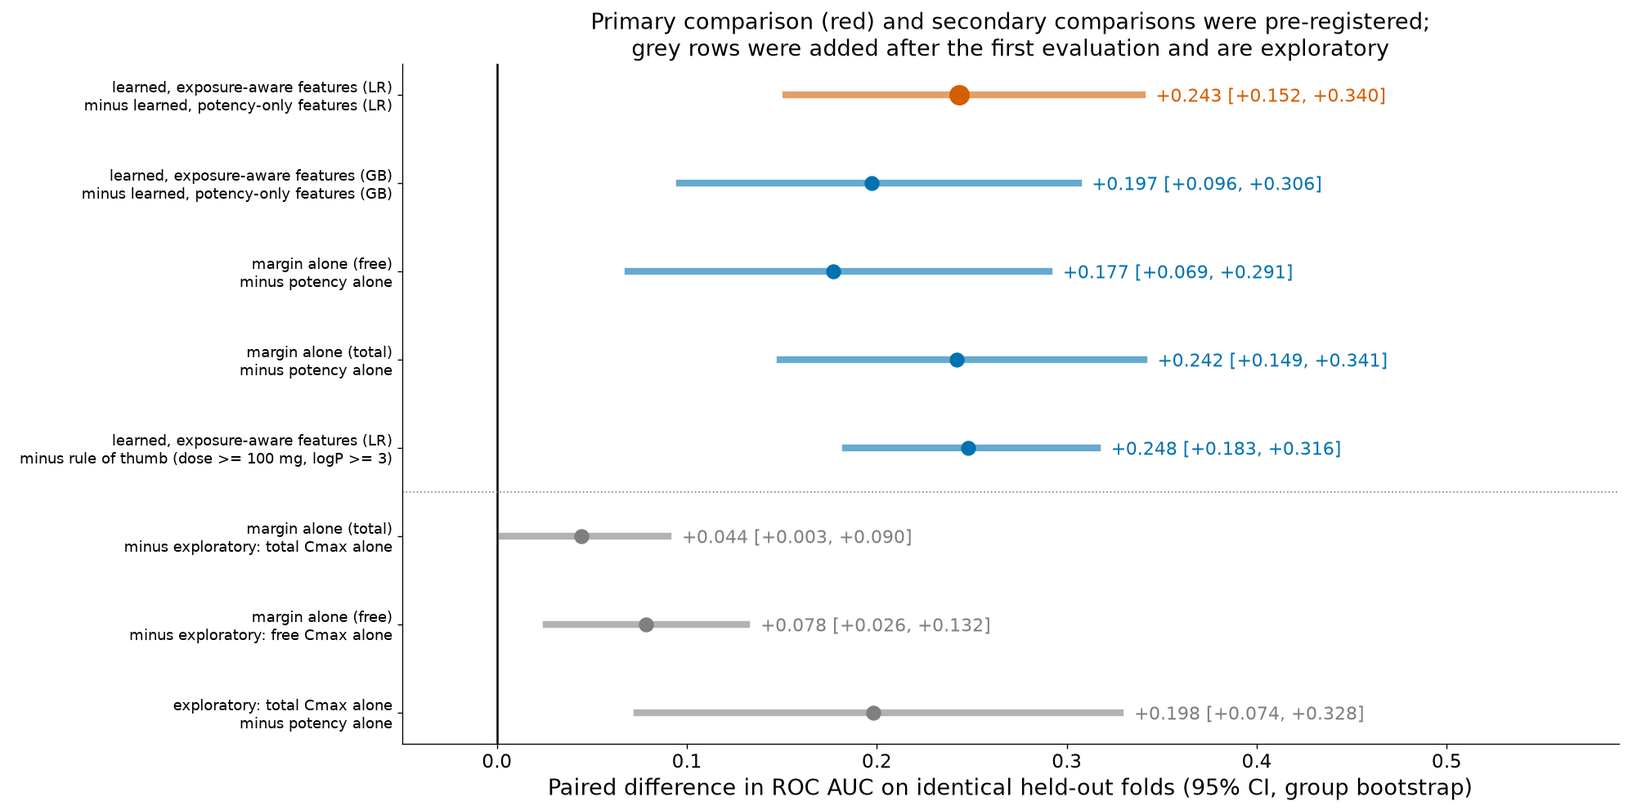
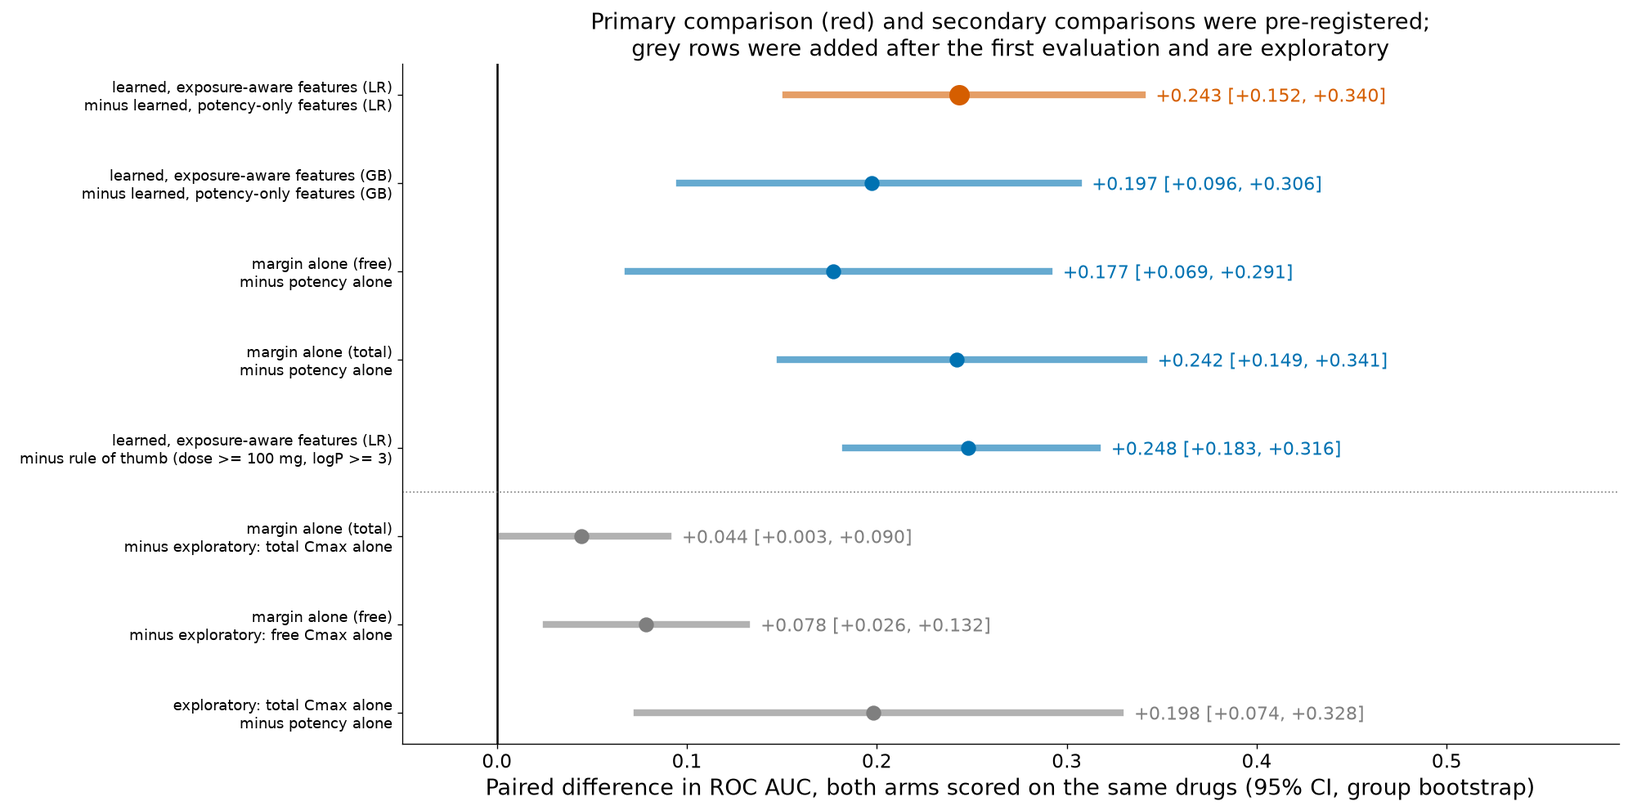
Say what the pre-registered split buys for a ratio with nothing fitted
- both columns of the class-definition table are the same parameter-free
  log-ratio, so the split fixes the evaluation set and the bootstrap groups
  and cannot move either point estimate; the README and the report outline
  now say that, and say it is what makes the two columns comparable
- hold-out wording is reserved for the arms that are actually fitted and for
  the +0.243 paired difference between them
- ROC title names the evaluation set; the paired-difference axis says what
  every row shares, including the score-arm rows; the ROC footnote drops
  'no hold-out' and the outline names the paper's prospective PBK arm
- the neural counts the write-up prints (136/82/21/13/9) are asserted as
  literals and the nine measured-exposure compounds by name, so a data
  change fails the suite instead of moving a published number quietly;
  coverage() now says self-consistent rather than implying completeness
- --cmax 0 is a supplied value again instead of a missing one, and the
  invalid-input message reads as a sentence
- the exposure gap is stated as 61 of 82 active and 115 of all 136, scoped
  to the exposure sources in these inputs rather than to anyone

roc.png and paired_difference.png are label-only regenerations; no value in
results/ changed. 77 tests pass, code freeze 36 of 36, validation/ untouched.

Changed region(s): [[0.3114, 0.9384, 0.9342, 0.999]]

diff --git a/src/figures.py b/src/figures.py
@@ -246,17 +246,21 @@ def roc_figure(result: dict, exploratory: dict, path: Path) -> Path:
     ax.plot([0, 1], [0, 1], color=GREY, lw=1, alpha=0.5)
     ax.set_xlabel("False-positive rate (drugs without clinical DILI concern flagged)")
     ax.set_ylabel("True-positive rate (drugs with DILI concern flagged)")
-    ax.set_title(f"Held-out drugs, grouped by matched pair and structure (n = {result['n']}; "
+    # "Held-out" would be false for the score arms on this plot: a fixed ratio has nothing to fit, so the
+    # pre-registered split fixes the set and the bootstrap groups, not the point estimate. Name the set.
+    ax.set_title(f"Pre-registered evaluation set, grouped by matched pair and structure (n = {result['n']}; "
                  f"{result['n_positive']} with concern, {result['n_negative']} without)", fontsize=15)
     # Lower right: empty by construction in a ROC plot, so the legend costs no curve area.
     ax.legend(loc="lower right", frameon=True, framealpha=0.95, edgecolor=GREY, fontsize=13,
               borderpad=0.7, labelspacing=0.5, handlelength=2.6)
     ax.set_aspect("equal")
+    # Two footnote lines, not three: a third needs a bigger bottom margin, which costs ~8% of the plot
+    # area that round 4 bought back for video legibility.
     fig.text(0.01, 0.005,
              f"Dose rule of thumb: flagged when the daily dose is >= {config.RULE_OF_THUMB_DOSE_MG:g} mg and "
              f"logP >= {config.RULE_OF_THUMB_LOGP:g}. LR = logistic regression. Brackets are 95% CIs (group bootstrap)."
-             "\nIn-sample comparator: Geci et al. 2026 report 90% for this class definition, retrospectively on all "
-             "241 drugs, with no hold-out and no interval.",
+             "\nPublished comparator: Geci et al. 2026 report 90% for this class definition, retrospectively on all "
+             "241 drugs, with no interval. Their ratio is parameter-free, and so are the margin arms here.",
              fontsize=11, color=GREY, linespacing=1.4)
     return _save(fig, path)
 
@@ -281,7 +285,9 @@ def paired_difference_figure(result: dict, exploratory: dict, path: Path) -> Pat
     ax.axhline(n - n_pre - 0.5, color=GREY, lw=1, ls=":")
     ax.set_yticks(range(n))
     ax.set_yticklabels([r[0].replace(" minus ", "\n  minus ") for r in rows][::-1], fontsize=11)
-    ax.set_xlabel("Paired difference in ROC AUC on identical held-out folds (95% CI, group bootstrap)")
+    # Secondary rows compare parameter-free score arms, so "held-out folds" would not be true of every row;
+    # what every row does share is that both arms are scored on the same drugs in the same bootstrap draw.
+    ax.set_xlabel("Paired difference in ROC AUC, both arms scored on the same drugs (95% CI, group bootstrap)")
     ax.set_title("Primary comparison (red) and secondary comparisons were pre-registered;\n"
                  "grey rows were added after the first evaluation and are exploratory", fontsize=16)
     ax.set_xlim(min(-0.05, min(r[2] for r in rows) - 0.02), max(r[3] for r in rows) + 0.25)

diff --git a/tests/test_data_and_labels.py b/tests/test_data_and_labels.py
@@ -65,9 +65,45 @@ def test_neural_table_covers_every_chemical_and_issues_no_verdict():
     assert (margins["verdict"] == neural.NO_CONVENTION).all()
 
 
+# The counts Beat 5 speaks aloud and the README prints as a finding. Literals on purpose: the test above
+# re-derives them from the same tables `coverage()` counted, so it cannot see input loss (dropping a
+# measured row still reconciles). These do. A data-vintage change must turn this red, so that a recorded
+# script is revisited rather than silently contradicted.
+SPOKEN_NEURAL_COUNTS = {
+    "chemicals tested": 136,
+    "active": 82,
+    "with a human exposure comparator": 21,
+    "via predicted exposure": 13,
+    "via measured exposure": 9,
+    "in both routes": 1,
+}
+SPOKEN_MEASURED_ROUTE = {
+    "17beta-Estradiol", "CP-457920", "Diphenhydramine hydrochloride", "Folic acid", "Lovastatin",
+    "Pravastatin sodium", "Reserpine", "Simvastatin", "Tamoxifen",
+}
+
+
+def test_the_neural_counts_the_script_speaks_are_pinned_to_literals():
+    potency, margins = neural.margin_table()
+    coverage = neural.coverage(potency, margins)
+    assert dict(zip(coverage["stage"].str.strip(), coverage["count"])) == SPOKEN_NEURAL_COUNTS
+    assert coverage.attrs["check"] == "13 + 9 = 22 route rows for 21 chemicals (1 in both)"
+
+
+def test_the_measured_exposure_route_is_pinned_to_its_compounds():
+    """Mirror of the AED test for the other route: which nine chemicals, not just how many."""
+    _, margins = neural.margin_table()
+    assert set(margins.loc[margins["route"] == neural.DRUG_ROUTE, "compound"]) == SPOKEN_MEASURED_ROUTE
+    both = (set(margins.loc[margins["route"] == neural.DRUG_ROUTE, "compound"])
+            & set(margins.loc[margins["route"] == neural.AED_ROUTE, "compound"]))
+    assert both == {"Simvastatin"}
+
+
 def test_neural_coverage_counts_reconcile_with_the_margin_table():
-    """The funnel is a measurement: every count is re-derived here from the tables, not asserted."""
-    from src import neural
+    """The funnel is a measurement: every count is re-derived here from the tables, not asserted.
+
+    Scope: internal consistency only. Input loss is caught by the pinned literals above, not here.
+    """
     potency, margins = neural.margin_table()
     coverage = neural.coverage(potency, margins)
     counts = dict(zip(coverage["stage"].str.strip(), coverage["count"]))
@@ -83,9 +119,7 @@ def test_neural_coverage_counts_reconcile_with_the_margin_table():
 
 def test_neural_coverage_refuses_counts_that_do_not_reconcile():
     """A comparator for a chemical with no active potency value is a counting error, not a result."""
-    import pandas as pd
     import pytest
-    from src import neural
     potency, margins = neural.margin_table()
     broken = margins.copy()
     broken.loc[broken.index[0], "compound"] = "not-a-tested-chemical"

diff --git a/src/margin.py b/src/margin.py
@@ -137,11 +137,15 @@ def _bad(value: float | None) -> bool:
     return value is None or not np.isfinite(value) or value <= 0
 
 
-def _unusable(q: Quantity | None, what: str) -> str | None:
+def _unusable(q: Quantity | None, what: str, missing: str | None = None) -> str | None:
     """Why a quantity cannot be used, naming the actual problem. A value that was supplied and is out
-    of range is a different fact from one that was never supplied, and a reader acts on it differently."""
+    of range is a different fact from one that was never supplied, and a reader acts on it differently.
+
+    Two nouns, because one does not fit both frames: "no usable clinical exposure" is right when nothing
+    was given, but "the usable clinical exposure given is zero" is not a sentence about a supplied value.
+    """
     if q is None or any(v is None for v in (q.point, q.low, q.high)):
-        return f"no {what}; no default is substituted"
+        return f"no {missing or what}; no default is substituted"
     if not all(np.isfinite(v) for v in (q.point, q.low, q.high)):
         return f"the {what} given is not a finite number (out of the range this tool can represent)"
     if any(v <= 0 for v in (q.point, q.low, q.high)):
@@ -153,7 +157,8 @@ def invalid_reason(inp: MarginInput) -> str | None:
     """Why no margin can be computed, in the words a scientist would use; None if inputs are usable."""
     if inp.fu_medium is None:
         return "fraction unbound in the test medium is missing (use 1 for nominal = free)"
-    reason = _unusable(inp.cmax, "usable clinical exposure (Cmax)") or _unusable(inp.pod, "point of departure")
+    reason = (_unusable(inp.cmax, "clinical exposure (Cmax)", "usable clinical exposure (Cmax)")
+              or _unusable(inp.pod, "point of departure"))
     if reason:
         return reason
     for label, q in (("plasma", inp.fu_plasma), ("medium", inp.fu_medium)):

diff --git a/src/neural.py b/src/neural.py
@@ -159,10 +159,12 @@ def coverage(potency: pd.DataFrame, margins: pd.DataFrame) -> pd.DataFrame:
         ("  in both routes", len(both), "both", ", ".join(both) or "none"),
     ]
     frame = pd.DataFrame(rows, columns=["stage", "count", "comparator", "detail"])
-    # Completeness check: per-route rows must reconcile with unique chemicals and with the table.
+    # Internal consistency only, and deliberately not called a completeness check: every number here is
+    # counted from `margins`, so a row missing from the input reconciles just as well as one that is
+    # present. The counts the video speaks are pinned to literals in tests/test_data_and_labels.py.
     reconciles = len(aed) + len(drug) - len(both) == len(aed | drug) == margins["compound"].nunique()
     if not (reconciles and len(margins) == len(aed) + len(drug)):
-        raise ValueError("neural coverage counts do not reconcile with the margin table")
+        raise ValueError("neural coverage counts are not self-consistent with the margin table")
     frame.attrs["check"] = (f"{len(aed)} + {len(drug)} = {len(margins)} route rows for "
                             f"{len(aed | drug)} chemicals ({len(both)} in both)")
     return frame

diff --git a/run_demo.py b/run_demo.py
@@ -170,7 +170,9 @@ def run_readout(args: argparse.Namespace) -> int:
     inp = margin.MarginInput(
         name=args.name,
         pod=margin.point_with_default(args.readout, "chip POD (user)")[0],
-        cmax=margin.Quantity.exact(args.cmax, "clinical Cmax (user)") if args.cmax else None,
+        # `is not None`, not truthiness: --cmax 0 is a supplied value the margin engine must reject as
+        # zero-or-negative, not silently become the "no Cmax given" case.
+        cmax=None if args.cmax is None else margin.Quantity.exact(args.cmax, "clinical Cmax (user)"),
         fu_plasma=fu_plasma,
         fu_medium=margin.Quantity.exact(args.fu_medium, "user fu medium"),
         pod_censored=args.censored,

diff --git a/writeup/report_outline.md b/writeup/report_outline.md
@@ -37,13 +37,15 @@ clinical liver injury until it is set against human exposure. The authors report
 vitro toxicity values of drugs showed little ability for distinguishing DILI concern classes on their own",
 and that "the ratio of in vivo Cmax to lowest functional in vitro toxicity of each compound" separates
 clinical DILI classes with ROC AUC up to 96 %. Both statements come from a retrospective analysis of the
-full set of 241 drugs, reported as point estimates without confidence intervals; the paper describes no
-cross-validation, no held-out test set and no structure-based grouping of the drugs. This is not a criticism
-of that work: an in-sample analysis is the right way to establish that a relationship exists, and it is what
-the paper set out to do.
+full set of 241 drugs, reported as point estimates without confidence intervals, without a pre-specified
+analysis set, and without structure-based grouping of the drugs. This is not a criticism of that work:
+a retrospective analysis is the right way to establish that a relationship exists, and it is what the paper
+set out to do. (The abstract additionally reports a predicted-Cmax PBK arm reaching "up to 91 %
+prospectively", which is a separate claim from the ratio compared here.)
 
-What this work adds on that benchmark is an out-of-sample test of the same relationship, and the dose layer
-that sits on top of it. Three things are new here. First, the comparison is pre-registered: the analysis
+What this work adds on that benchmark is a pre-registered evaluation of the same relationship, out-of-fold
+estimation for the arms that are actually fitted, and the dose layer that sits on top of both. Three things
+are new here. First, the comparison is pre-registered: the analysis
 plan and the fold assignment were committed to `validation/preregistration.json` and `validation/split.csv`
 before the first evaluation was run, and the code refuses to evaluate if either has since changed
 (`validation/code_freeze.json` additionally fingerprints the 36 functions and constants that execute the
@@ -55,21 +57,30 @@ than a contrast of separately estimated AUCs. Beyond the benchmark, the margin i
 equivalent daily dose in mg rather than a ratio, and the identical pipeline is applied to a second organ
 (neural network formation on microelectrode arrays).
 
-### 2.1 In-sample and out-of-sample on the same benchmark
+### 2.1 The published ratio on a pre-registered set, with an interval
 
 The paper reports two AUC figures for its ratio, one per class definition. Those two definitions are
 reproduced here class for class, which makes each figure directly comparable with one of our endpoints:
 
-| Class definition (the paper's wording) | Geci et al., retrospective, 241 drugs | This work, grouped out-of-sample split |
+| Class definition (the paper's wording) | Geci et al., retrospective, 241 drugs | This work, pre-registered set, grouped CI |
 |---|---|---|
 | "No- from Most-DILI and Clinical Development Failure drugs" | 96 % (point estimate, no CI) | **0.938 [0.884, 0.980]** (n = 152, 132 groups) |
 | "No- from Less-, Most-DILI and Clinical Development Failures" | 90 % (point estimate, no CI) | **0.889 [0.829, 0.940]** (n = 220, 177 groups) |
 
-Both of our confidence intervals contain the published point estimate. The headline finding of this
-comparison is therefore that the published in-sample result holds up when the ratio is re-estimated on
-held-out drugs under structure-grouped folds — it does not depend on the drugs the relationship was found
-in. The two comparisons are not like for like, and the report states the three reasons in this same
-paragraph: our analysis covers 220 of the 241 drugs (oral only, one row per molecule, non-ambiguous label);
+The section states plainly what kind of agreement this is, because the estimator on both sides is the same:
+the paper's ratio has no fitted parameters, and neither does the `margin alone` arm reported here
+(`src/validate.py`, `kind="score"`). The ratio is not re-estimated on held-out drugs, because there is
+nothing in it to estimate, and the pre-registered split therefore cannot move the point estimate — it fixes
+which drugs are in the set and it defines the groups the bootstrap resamples. That identity of estimator is
+what makes the two columns comparable at all, and it is the reason the agreement is worth reporting: a fixed
+ratio carried from the paper's 241 drugs to a set and a plan committed in advance, now with an interval
+around it and with a paired comparison against potency alone that the retrospective analysis does not
+report. Held-out estimation in this work belongs to the learned arms of Section 7.2, where the
+pre-registered primary comparison (+0.243 [+0.152, +0.340]) sits between two fitted models.
+
+Both of our confidence intervals contain the published point estimate. The two comparisons are not like for
+like, and the report states the three reasons in this same paragraph: our analysis covers 220 of the 241
+drugs (oral only, one row per molecule, non-ambiguous label);
 the published values carry no interval, so "contains their point estimate" is a one-sided statement about
 our uncertainty and not about theirs; and the two ratios are not built from the same assays, because the
 paper's ratio uses functional toxicity only ("Functional toxicity refers to all in vitro toxicity data
@@ -79,9 +90,9 @@ work; it is not reported here, because adding an arm after the first evaluation 
 pre-registration this comparison rests on.
 
 One further reading of the same table is worth stating, because a reviewer who has read only the abstract
-will arrive with the figure 96 % in mind: setting that 96 % against our 0.889 would suggest a drop of about
-0.07 from out-of-sample validation. It is an artefact of comparing two different class definitions. The
-matched comparisons are the two rows above.
+will arrive with the figure 96 % in mind: setting that 96 % against our 0.889 would suggest that a grouped,
+pre-registered evaluation cost about 0.07. It is an artefact of comparing two different class definitions.
+The matched comparisons are the two rows above.
 
 What does not survive as a novelty claim is the direction of the finding itself, and the report says so
 where the result is first presented (Section 7.2): the ordering of the arms, and the size of the paired
@@ -121,14 +132,15 @@ grouping and the split hash. Then what the freeze does and does not cover, from 
 
 - **7.1** Liver-Chip: 27 drugs, the pair views, the hero pair as a daily dose (`results/dose_view.png`).
 - **7.2** The benchmark: arms table, ROC (`results/roc.png`), paired differences
-  (`results/paired_difference.png`), and the in-sample/out-of-sample comparison from Section 2.1.
+  (`results/paired_difference.png`), and the published-ratio comparison from Section 2.1.
 - **7.3** The exploratory exposure-alone analysis, labelled as added after the first run.
 - **7.4** The second organ, and the measurement of the field's bottleneck: 136 chemicals tested, 82
   active, 21 with any public human exposure comparator (13 predicted by the EPA, 9 measured clinical
   Cmax, simvastatin in both — 22 route rows for 21 chemicals). Figure: `results/neural_coverage.png`,
-  table: `results/neural_coverage.csv`, both generated. The point for the reader: for roughly three
-  quarters of the chemicals this chip has already measured, nobody can take the step from
-  concentration to dose, and the missing half is the published exposure value, not the chip.
+  table: `results/neural_coverage.csv`, both generated. The point for the reader: for 61 of the 82
+  active chemicals — and for 115 of all 136 the chip has measured — the step from concentration to dose
+  cannot be taken from any exposure source in these inputs, and the missing half is the published
+  exposure value, not the chip.
 
 ## 8. Failures, limitations and bias *(outline)*
 

diff --git a/README.md b/README.md
@@ -104,32 +104,42 @@ exposure is the benchmark authors' own published finding, not ours: they report 
 little ability for distinguishing DILI concern classes on their own", and ROC AUC up to 96 % for the ratio of clinical
 Cmax to lowest in-vitro toxicity, in a retrospective analysis of all 241 drugs (Geci et al. 2026,
 [doi:10.1007/s00204-026-04305-2](https://doi.org/10.1007/s00204-026-04305-2)). What this repository adds on that
-benchmark is the out-of-sample test of their ratio, under a plan and a split committed before the first evaluation, with
-structure-grouped folds and paired confidence intervals.
+benchmark is a pre-registered evaluation of their ratio — the set of drugs and the analysis plan committed before the
+first evaluation, a structure-grouped bootstrap interval, and a paired comparison against potency alone on identical
+drugs — together with the learned, out-of-fold arms and the dose layer that sits on top of them.
 
-### Does the published number survive a structure-grouped split?
+### The published ratio, on a pre-registered set and with an interval
 
 Geci et al. report two AUCs for their ratio, one per class definition. We reproduce both class definitions exactly, so
 each of their figures has a counterpart here:
 
-| Class definition (their wording) | Geci et al.: retrospective, 241 drugs | Here: pre-registered, grouped, held-out |
+| Class definition (their wording) | Geci et al.: retrospective, 241 drugs | Here: pre-registered set, structure-grouped CI |
 |---|---|---|
 | "No- from Most-DILI and Clinical Development Failure drugs" | 96 % (point estimate, no CI) | **0.938 [0.884, 0.980]** (n = 152, 132 groups) |
 | "No- from Less-, Most-DILI and Clinical Development Failures" | 90 % (point estimate, no CI) | **0.889 [0.829, 0.940]** (n = 220, 177 groups) |
 
-Both of our intervals contain their published value: the relationship holds on drugs the model never saw, with matched
-pairs, identical molecules and structural neighbours (Morgan Tanimoto >= 0.4) kept out of the training folds. The two
-columns are not like for like, in three ways that all belong in this same paragraph: we cover 220 of the 241 drugs
-(oral only, one row per molecule, non-ambiguous label); their values carry no interval, so "contains their value" is a
-statement about our uncertainty and not about theirs; and the two ratios are not built from the same assays, because
-their ratio uses functional toxicity only ("Functional toxicity refers to all in vitro toxicity data except BSEP
-inhibition") while our lowest POD is the minimum over all available assays, BSEP included. A BSEP-excluded margin is
-listed under future work rather than added here: a new arm after the first evaluation would break the pre-registration
-this comparison rests on.
+What kind of agreement this is turns on one fact, so it comes first: their ratio has no fitted parameters, and neither
+does ours. It is the same fixed log-ratio of exposure to lowest point of departure, scored the same way, and that
+identity is exactly what makes the two columns comparable. Nothing in this table is held out, because here there is
+nothing to fit: the pre-registered split cannot move either point estimate. What the pre-registration and the grouping
+buy on these rows is three other things: the drugs and the analysis plan were fixed before the first evaluation, so the
+inclusion filters could not be chosen to suit the answer; the interval comes from a bootstrap that resamples whole
+groups (matched pairs, the same molecule, structural neighbours at Morgan Tanimoto >= 0.4), so near-duplicate drugs
+cannot narrow it; and the same drugs carry a paired comparison against potency alone, which the published retrospective
+analysis does not report. Held-out estimation in this repository belongs to the learned arms, where the pre-registered
+primary comparison (+0.24 [+0.15, +0.34]) sits between two fitted models.
+
+Both of our intervals contain their published value. The two columns are not like for like, in three ways that all
+belong in this same paragraph: we cover 220 of the 241 drugs (oral only, one row per molecule, non-ambiguous label);
+their values carry no interval, so "contains their value" is a statement about our uncertainty and not about theirs;
+and the two ratios are not built from the same assays, because their ratio uses functional toxicity only ("Functional
+toxicity refers to all in vitro toxicity data except BSEP inhibition") while our lowest POD is the minimum over all
+available assays, BSEP included. A BSEP-excluded margin is listed under future work rather than added here: a new arm
+after the first evaluation would break the pre-registration this comparison rests on.
 
 One comparison to avoid, because the 96 % is the number an abstract-reader remembers: setting that 96 % against our
-0.889 suggests a drop of about 0.07 from out-of-sample validation. It is an artefact of comparing two different class
-definitions. The matched rows above are the comparison.
+0.889 suggests that a grouped, pre-registered evaluation cost about 0.07. It is an artefact of comparing two different
+class definitions. The matched rows above are the comparison.
 
 ## Findings we report against ourselves
 
@@ -148,9 +158,9 @@ definitions. The matched rows above are the comparison.
 - **Neural application — the exposure half is the bottleneck, and we counted it.** Of 136 chemicals tested on the
   network-formation chip, 82 are active, and **21 have any public human exposure value to compare against**: 13 through
   the EPA's predicted population exposure, 9 through a measured clinical Cmax, simvastatin through both (13 + 9 = 22
-  route rows for 21 chemicals). So for roughly three quarters of the chemicals this chip has already measured, the
-  step from concentration to dose cannot be taken by anyone — not because the chip data are missing, but because the
-  published exposure half is. The counts are generated, not asserted: `results/neural_coverage.csv` and
+  route rows for 21 chemicals). So for 61 of the 82 active chemicals — and for 115 of all 136 this chip has already
+  measured — the step from concentration to dose cannot be taken from any exposure source in these inputs, not because
+  the chip data are missing, but because the published exposure half is. The counts are generated, not asserted: `results/neural_coverage.csv` and
   `neural_coverage.png`. Margins are reported for those 21 only, in two separate panels because the two routes measure
   different things and are never pooled. No published threshold exists for this endpoint, so no verdict is issued.
 - The literature benchmark's lowest POD is the minimum over however many assays were run on a drug; the number of
